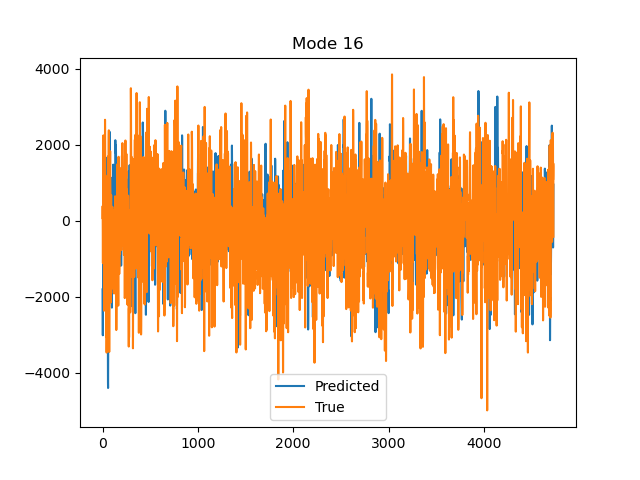
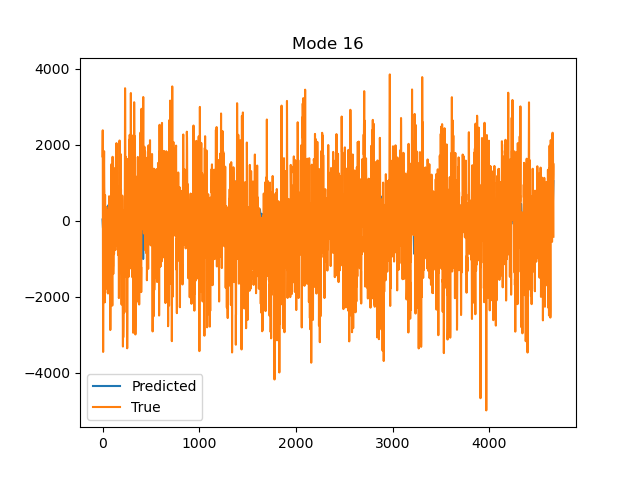
latest results

diff --git a/Z500/utils.py b/Z500/utils.py
@@ -90,12 +90,12 @@ def plot_averaged_errors(true_fields, pred_fields, snapshots_mean):
     plot_contours(mae_fields,'Mean absolute error')
     plot_contours(rmse_fields,'Root Mean squared error')
 
-    r_plot = correlation_plot(true_fields,pred_fields,int_start=0,int_end=3*365)
+    r_plot = correlation_plot(true_fields,pred_fields,int_start=0,int_end=10*365)
 
     true_fluc = true_fields - snapshots_mean[:,:,None]
     pred_fluc = pred_fields - snapshots_mean[:,:,None]
 
-    cos_plot = cosine_plot(true_fluc,pred_fluc,int_start=0,int_end=3*365)
+    cos_plot = cosine_plot(true_fluc,pred_fluc,int_start=0,int_end=10*365)
 
     plot_contours(r_plot,'Pearson R plot')
     plot_contours(cos_plot,'Cosine similarity plot')

diff --git a/Z500/post_analyses.py b/Z500/post_analyses.py
@@ -25,7 +25,11 @@ true_pod = snapshots_mean[:,:,None] + np.matmul(pod_modes,true_test.T).reshape(1
 predicted = snapshots_mean[:,:,None] + np.matmul(pod_modes,pred_test.T).reshape(103,120,-1)
 # var = snapshots_mean[:,:,None] + np.matmul(pod_modes,pred_var_test.T).reshape(103,120,-1)
 
+# persistence predictions
+persistence_fields = test_fields[:,:,num_ips:-lead_time]
+
 # Post analyses - unify time slices
 test_fields = test_fields[:,:,num_ips+lead_time:]
 
 plot_averaged_errors(test_fields,predicted,snapshots_mean)
+plot_averaged_errors(test_fields,persistence_fields,snapshots_mean)

diff --git a/Z500/lstm_archs.py b/Z500/lstm_archs.py
@@ -21,8 +21,8 @@ import matplotlib.pyplot as plt
 from scipy.optimize import minimize
 
 # Input output
-num_ips = 14
-num_ops = 7
+num_ips = 28
+num_ops = 56
 
 #Build the model which does basic map of inputs to coefficients
 class standard_lstm(Model):
